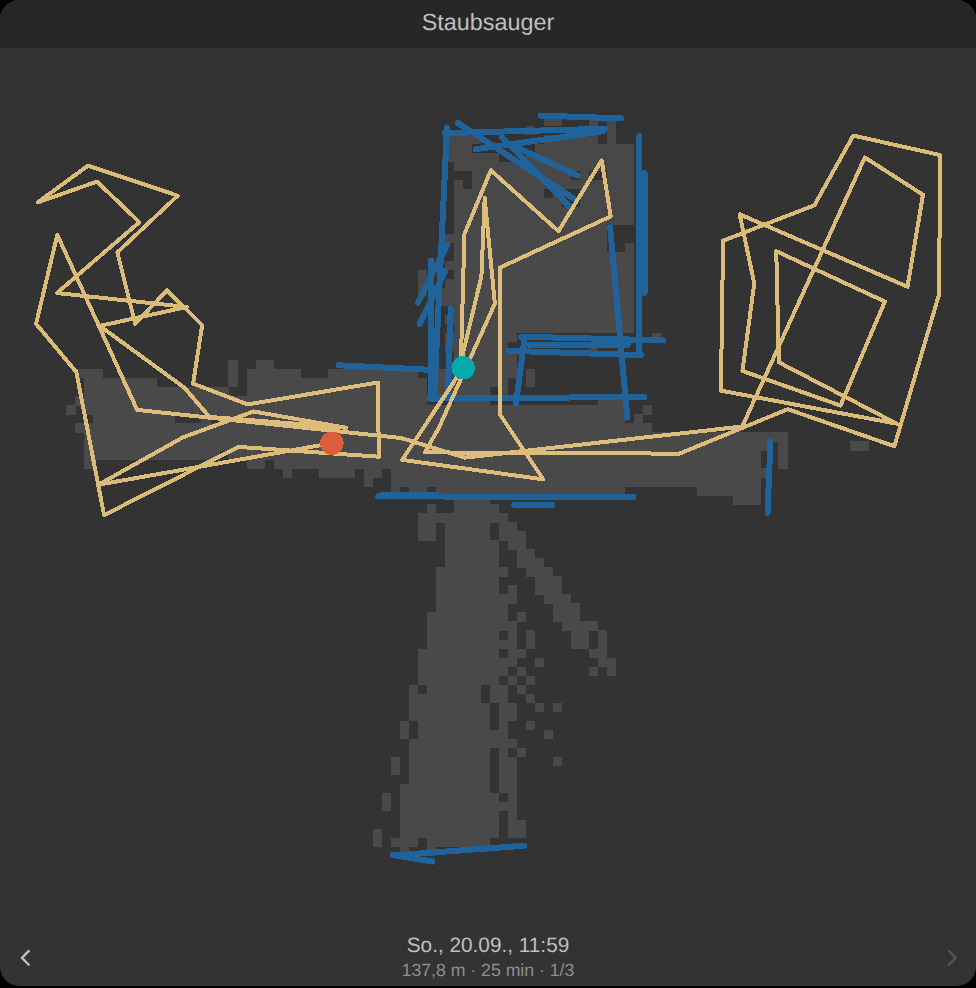
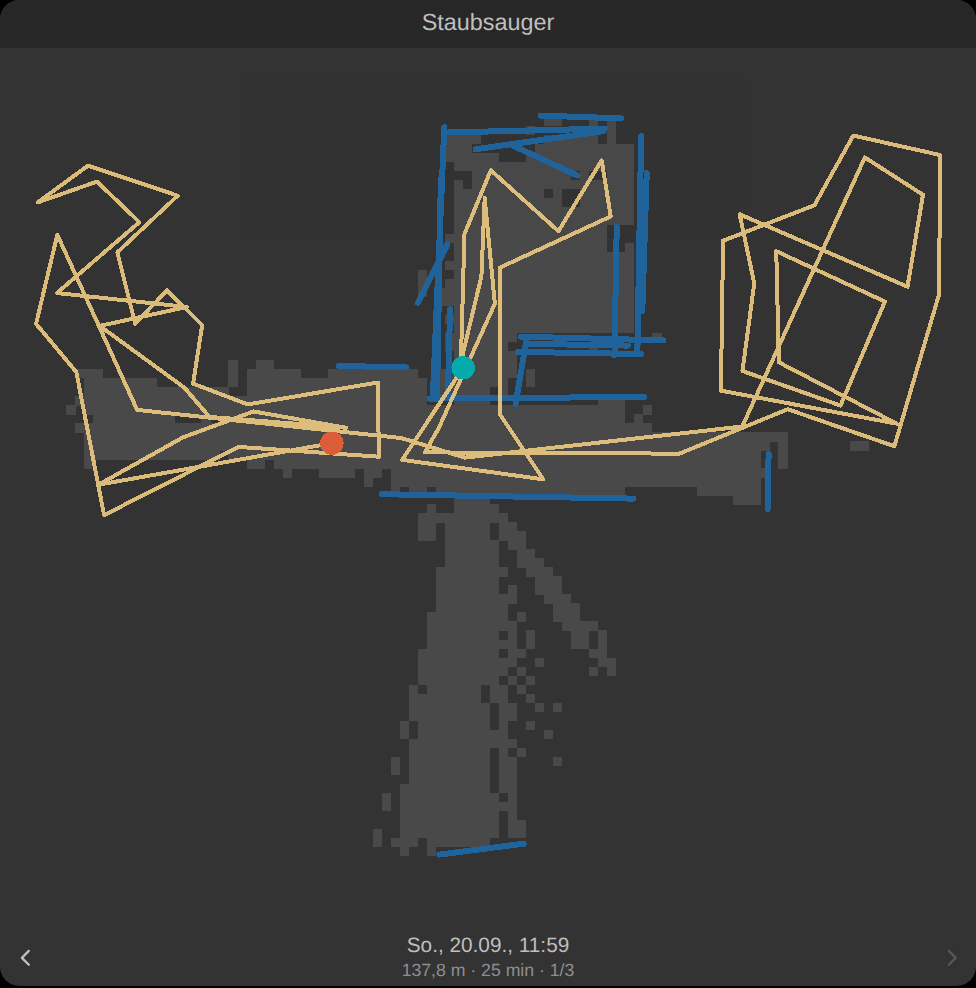
Verbinden der Wandstuecke an die Genauigkeit koppeln
An einer echten Aufzeichnung ueber eine ganze Wohnung nachgemessen: 595
Umdrehungen, 156 000 Punkte, eine Stunde. Dort liefen Linien diagonal durch
Raeume. Stufe fuer Stufe gerendert zeigte sich, wo: die Stuecke aus den
Umdrehungen zeichnen die Wohnung sauber, erst das Verbinden zog sie quer.

Grund: Die Schranken haengen an der Lueckenweite (gap * 0,15 + Toleranz = 16
cm) und an festen 10 Grad, also viel lockerer als die 4 cm, mit denen die
Stuecke selbst gebildet werden. In einer moeblierten Wohnung mit hunderten
Umdrehungen findet sich damit zu jedem Stueck ein Partner, der zufaellig
passt. Jetzt entscheiden join-offset (12 cm, die Groessenordnung, um die eine
Wand zwischen zwei Sichtungen wandert) und join-angle (4 Grad). Dazu prueft
die Guete nicht mehr nur den Mittelwert der Punktabstaende, sondern auch den
schlimmsten Endpunkt - ein Mittelwert ertraenkt ein paar Ausreisser in
tausend braven Punkten.

min-wall steht auf 0,6 m: in beiden geprueften Aufzeichnungen ruhiger, ohne
Abdeckung zu verlieren (Referenz 20 statt 25 Segmente bei 81 Prozent, die
Wohnung 156 statt 229 bei 85).

Zwei Vermutungen haben sich unterwegs als falsch erwiesen und stehen nicht im
Code: die Pose im Scan ist nicht veraltet (sie ist mit Abstand die schaerfste,
jede Interpolation zur naechsten Pose verschlechtert sie um 16 bis 50
Prozent), und ein gerechnetes Zimmer reproduziert den Fehler nicht - auch
moebliert und mit Rauschen nicht. Der neue Test haelt die Eigenschaft fest
[…]

diff --git a/www/ftui/components/neato/neato-walls.js b/www/ftui/components/neato/neato-walls.js
@@ -32,8 +32,19 @@
 import { worldPoints } from './neato-track.js';
 
 const DEFAULTS = {
-  // How far a point may sit off a line before the line is split in two.
+  // How far a point may sit off a line before the line is split in two. It
+  // is also the measure for joining two pieces: how far apart their lines
+  // may lie, and how far the angle between them may open up.
   tolerance: 0.04,
+  // The angle two pieces may differ by and still be the same wall. Wide open
+  // and a flat full of furniture always has a partner that fits by accident,
+  // and the joins wander off diagonally across rooms.
+  joinDegrees: 4,
+  // How far apart their lines may lie across the direction. A wall is seen
+  // from several places over an hour and lands a few centimetres apart each
+  // time; too strict and one wall stays a bundle of parallel strokes, too
+  // loose and two walls become one.
+  joinOffset: 0.12,
   // A jump this size in a revolution ends a run of points. A wall met at a
   // sharp angle spreads its points out, so this is wider than it looks like
   // it should be - and a run that is not straight is cut up again right
@@ -42,9 +53,10 @@ const DEFAULTS = {
   // Gaps up to this length are closed while joining - a doorway is not.
   gap: 0.80,
   // Shorter pieces are left out: crumbs, chair legs, the corner of a box.
-  // Measured against the reference recording, this is where the scribble
-  // between the walls goes without the walls going with it.
-  minLength: 0.40,
+  // Measured against two recordings - a thinned excerpt of ten revolutions
+  // and a full hour over a whole flat - this is where the scribble between
+  // the walls goes without the walls going with it.
+  minLength: 0.60,
   // Pieces off the main direction by less than this are turned onto it.
   snapDegrees: 8,
   // How much of a line the occupancy grid has to call a wall. Not all of it:
@@ -220,17 +232,26 @@ function line(piece) {
   const spread = Math.sqrt(across / n);
 
   // The ends are the outermost of the ends collected so far, projected onto
-  // the line - the piece never grows beyond what was measured.
+  // the line - the piece never grows beyond what was measured. On the way,
+  // the farthest any of them sits off the line: the spread above is a mean
+  // and a mean drowns a few stray ends in a thousand well behaved points,
+  // which is how a chain of joins can wander off across a flat.
   let min = Infinity;
   let max = -Infinity;
+  let reach = 0;
   for (let i = 0; i < piece.ends.length; i += 2) {
-    const t = (piece.ends[i] - mx) * ux + (piece.ends[i + 1] - my) * uy;
+    const dx = piece.ends[i] - mx;
+    const dy = piece.ends[i + 1] - my;
+    const t = dx * ux + dy * uy;
+    const off = Math.abs(-dy * ux + dx * uy);
     if (t < min) { min = t; }
     if (t > max) { max = t; }
+    if (off > reach) { reach = off; }
   }
 
   piece.angle = angle;
   piece.spread = spread;
+  piece.reach = reach;
   piece.x0 = mx + min * ux;
   piece.y0 = my + min * uy;
   piece.x1 = mx + max * ux;
@@ -338,7 +359,7 @@ function chains(group, settings) {
     const joint = line(sums);
     // Same rule as for a pairwise join: a line that no longer carries its
     // points is not one, and then the pieces stay as they were.
-    if (joint.spread <= settings.tolerance) {
+    if (joint.spread <= settings.tolerance && joint.reach <= settings.joinOffset * 1.5) {
       out.push(joint);
     } else {
       out.push(...chain);
@@ -368,12 +389,12 @@ function chains(group, settings) {
  * piece are the ones in its own bucket and the neighbouring ones.
  */
 function join(pieces, settings) {
-  const angleStep = 10 * Math.PI / 180;
+  const angleStep = Math.max(settings.joinDegrees, 1) * Math.PI / 180;
   // How far apart two lines may lie across their direction - not how far
   // along it, which is what the gap is for. Wide bins here would put every
   // piece of a whole wall flight into one list and turn the lookup back into
   // comparing everything with everything.
-  const offsetStep = Math.max(settings.gap * 0.15 + settings.tolerance, 0.05);
+  const offsetStep = Math.max(settings.joinOffset, 0.02);
 
   let current = pieces.slice().sort((a, b) => b.length - a.length);
 
@@ -456,7 +477,7 @@ function bucketKeys(piece, angleStep, offsetStep) {
 function mergePieces(a, b, settings) {
   let delta = Math.abs(a.angle - b.angle) % Math.PI;
   delta = Math.min(delta, Math.PI - delta);
-  if (delta > 10 * Math.PI / 180) {
+  if (delta > Math.max(settings.joinDegrees, 1) * Math.PI / 180) {
     return null;
   }
 
@@ -466,8 +487,10 @@ function mergePieces(a, b, settings) {
   const my = (a.y0 + a.y1) / 2;
   const off = (x, y) => Math.abs(-(y - my) * ux + (x - mx) * uy);
 
-  // Both ends of the candidate have to lie on the same line, ...
-  if (Math.max(off(b.x0, b.y0), off(b.x1, b.y1)) > settings.gap * 0.15 + settings.tolerance) {
+  // Both ends of the candidate have to lie on the same line - measured
+  // against how far a wall moves between two sightings, not against how wide
+  // the gap is.
+  if (Math.max(off(b.x0, b.y0), off(b.x1, b.y1)) > settings.joinOffset) {
     return null;
   }
 
@@ -491,8 +514,9 @@ function mergePieces(a, b, settings) {
   });
 
   // A joint line that no longer carries its points is not a wall but a
-  // compromise between two of them.
-  if (joint.spread > settings.tolerance) {
+  // compromise between two of them - measured both as the average distance
+  // of the points and as the worst of the ends.
+  if (joint.spread > settings.tolerance || joint.reach > settings.joinOffset * 1.5) {
     return null;
   }
 

diff --git a/www/ftui/components/neato/neato-map.component.js b/www/ftui/components/neato/neato-map.component.js
@@ -151,7 +151,9 @@ export class FtuiNeatoMap extends FtuiElement {
       walls: 'lines',
       lineTolerance: 0.04,
       joinGap: 0.8,
-      minWall: 0.4,
+      joinOffset: 0.12,
+      joinAngle: 4,
+      minWall: 0.6,
       snapAngle: 8,
       // how it looks
       showTrack: true,
@@ -262,6 +264,8 @@ export class FtuiNeatoMap extends FtuiElement {
       case 'walls':
       case 'line-tolerance':
       case 'join-gap':
+      case 'join-offset':
+      case 'join-angle':
       case 'min-wall':
       case 'snap-angle':
         this.view = null;
@@ -798,6 +802,8 @@ export class FtuiNeatoMap extends FtuiElement {
         wallTest(this.view.grid, threshold, seen), {
           tolerance: Number(this.lineTolerance),
           gap: Number(this.joinGap),
+          joinOffset: Number(this.joinOffset),
+          joinDegrees: Number(this.joinAngle),
           minLength: Number(this.minWall),
           snapDegrees: Number(this.snapAngle),
         });

diff --git a/README.md b/README.md
@@ -106,7 +106,9 @@ Solange `state` auf `cleaning` steht, wird die laufende Aufzeichnung alle
 | `walls` | `lines` | Wie die Wände gezeichnet werden: `lines` zieht gerade Linien daraus, `cells` zeigt die Gitterzellen der rohen Evidenz. |
 | `line-tolerance` | `0.04` | Wie weit ein Messpunkt von seiner Linie abweichen darf, in Metern. Größer heißt glatter und ungenauer. |
 | `join-gap` | `0.8` | Bis zu welcher Lücke zwei Stücke derselben Flucht zu einer Wand verbunden werden. `0` verbindet nichts. |
-| `min-wall` | `0.4` | Kürzere Stücke werden weggelassen – Stuhlbeine, Kabel, Kistenecken. |
+| `join-offset` | `0.12` | Wie weit zwei Stücke quer zur Richtung auseinanderliegen dürfen, um als dieselbe Wand zu gelten. Zu streng lässt eine Wand als Bündel paralleler Striche stehen, zu großzügig macht aus zwei Wänden eine. |
+| `join-angle` | `4` | Wie viel Grad zwei Stücke sich unterscheiden dürfen. |
+| `min-wall` | `0.6` | Kürzere Stücke werden weggelassen – Stuhlbeine, Kabel, Kistenecken. |
 | `snap-angle` | `8` | Wie weit ein Stück von der vorherrschenden Richtung abweichen darf, um darauf eingerastet zu werden, in Grad. `0` rastet nichts ein. |
 | `cell` | `0.10` | Zellgröße des Belegungsgitters in Metern. |
 | `threshold` | `0.25` | Ab welchem Anteil Treffer eine Zelle als Wand gilt. |
@@ -210,7 +212,12 @@ Schritten:
    `line-tolerance` abliegt.
 3. Stücke, die auf derselben Geraden liegen, werden verbunden, auch über die
    Lücken hinweg, die Möbel und Türöffnungen lassen (`join-gap`) – aber nur,
-   solange die gemeinsame Gerade ihre Punkte weiter trägt.
+   solange die gemeinsame Gerade ihre Punkte weiter trägt, und nur, wenn sie
+   wirklich dieselbe Gerade sind (`join-offset`, `join-angle`). Diese beiden
+   Schranken sind der empfindlichste Teil: In einer möblierten Wohnung mit
+   hunderten Umdrehungen findet sich zu jedem Stück irgendein Partner, der
+   zufällig passt – wenn man großzügig genug ist. Dann laufen plötzlich
+   Linien diagonal durch Räume.
 4. Stücke, die fast parallel zur vorherrschenden Richtung liegen, werden
    genau parallel dazu gedreht (`snap-angle`). Diese Richtung wird gemessen,
    nicht angenommen: Es ist die, auf die sich die längsten Wände einigen.
@@ -263,8 +270,8 @@ Fehlt ein Raum, war der Roboter nicht drin. Zwei Läufe lassen sich nicht
 übereinanderlegen, jeder hat seinen eigenen Nullpunkt.
 
 Gerechnet wird beim Laden, im Haupt-Thread. Für die Referenzaufzeichnung sind
-das rund 30 ms, für einen langen Lauf mit `mapInterval 5` – 300 Scans,
-85 000 Punkte – rund 120 ms: Das Gitter wächst mit der Wohnung, nicht mit der
+das rund 15 ms, für einen echten Lauf über eine ganze Wohnung – 595 Scans,
+156 000 Punkte, eine Stunde – rund 60 ms: Das Gitter wächst mit der Wohnung, nicht mit der
 Datenmenge, und für die Linien reichen 120 Umdrehungen, weil die übrigen
 dieselben Wände noch einmal zeigen. Welche Zellen Wand sind, entscheidet
 weiterhin jeder einzelne Strahl. Ein Worker lohnt nicht.
